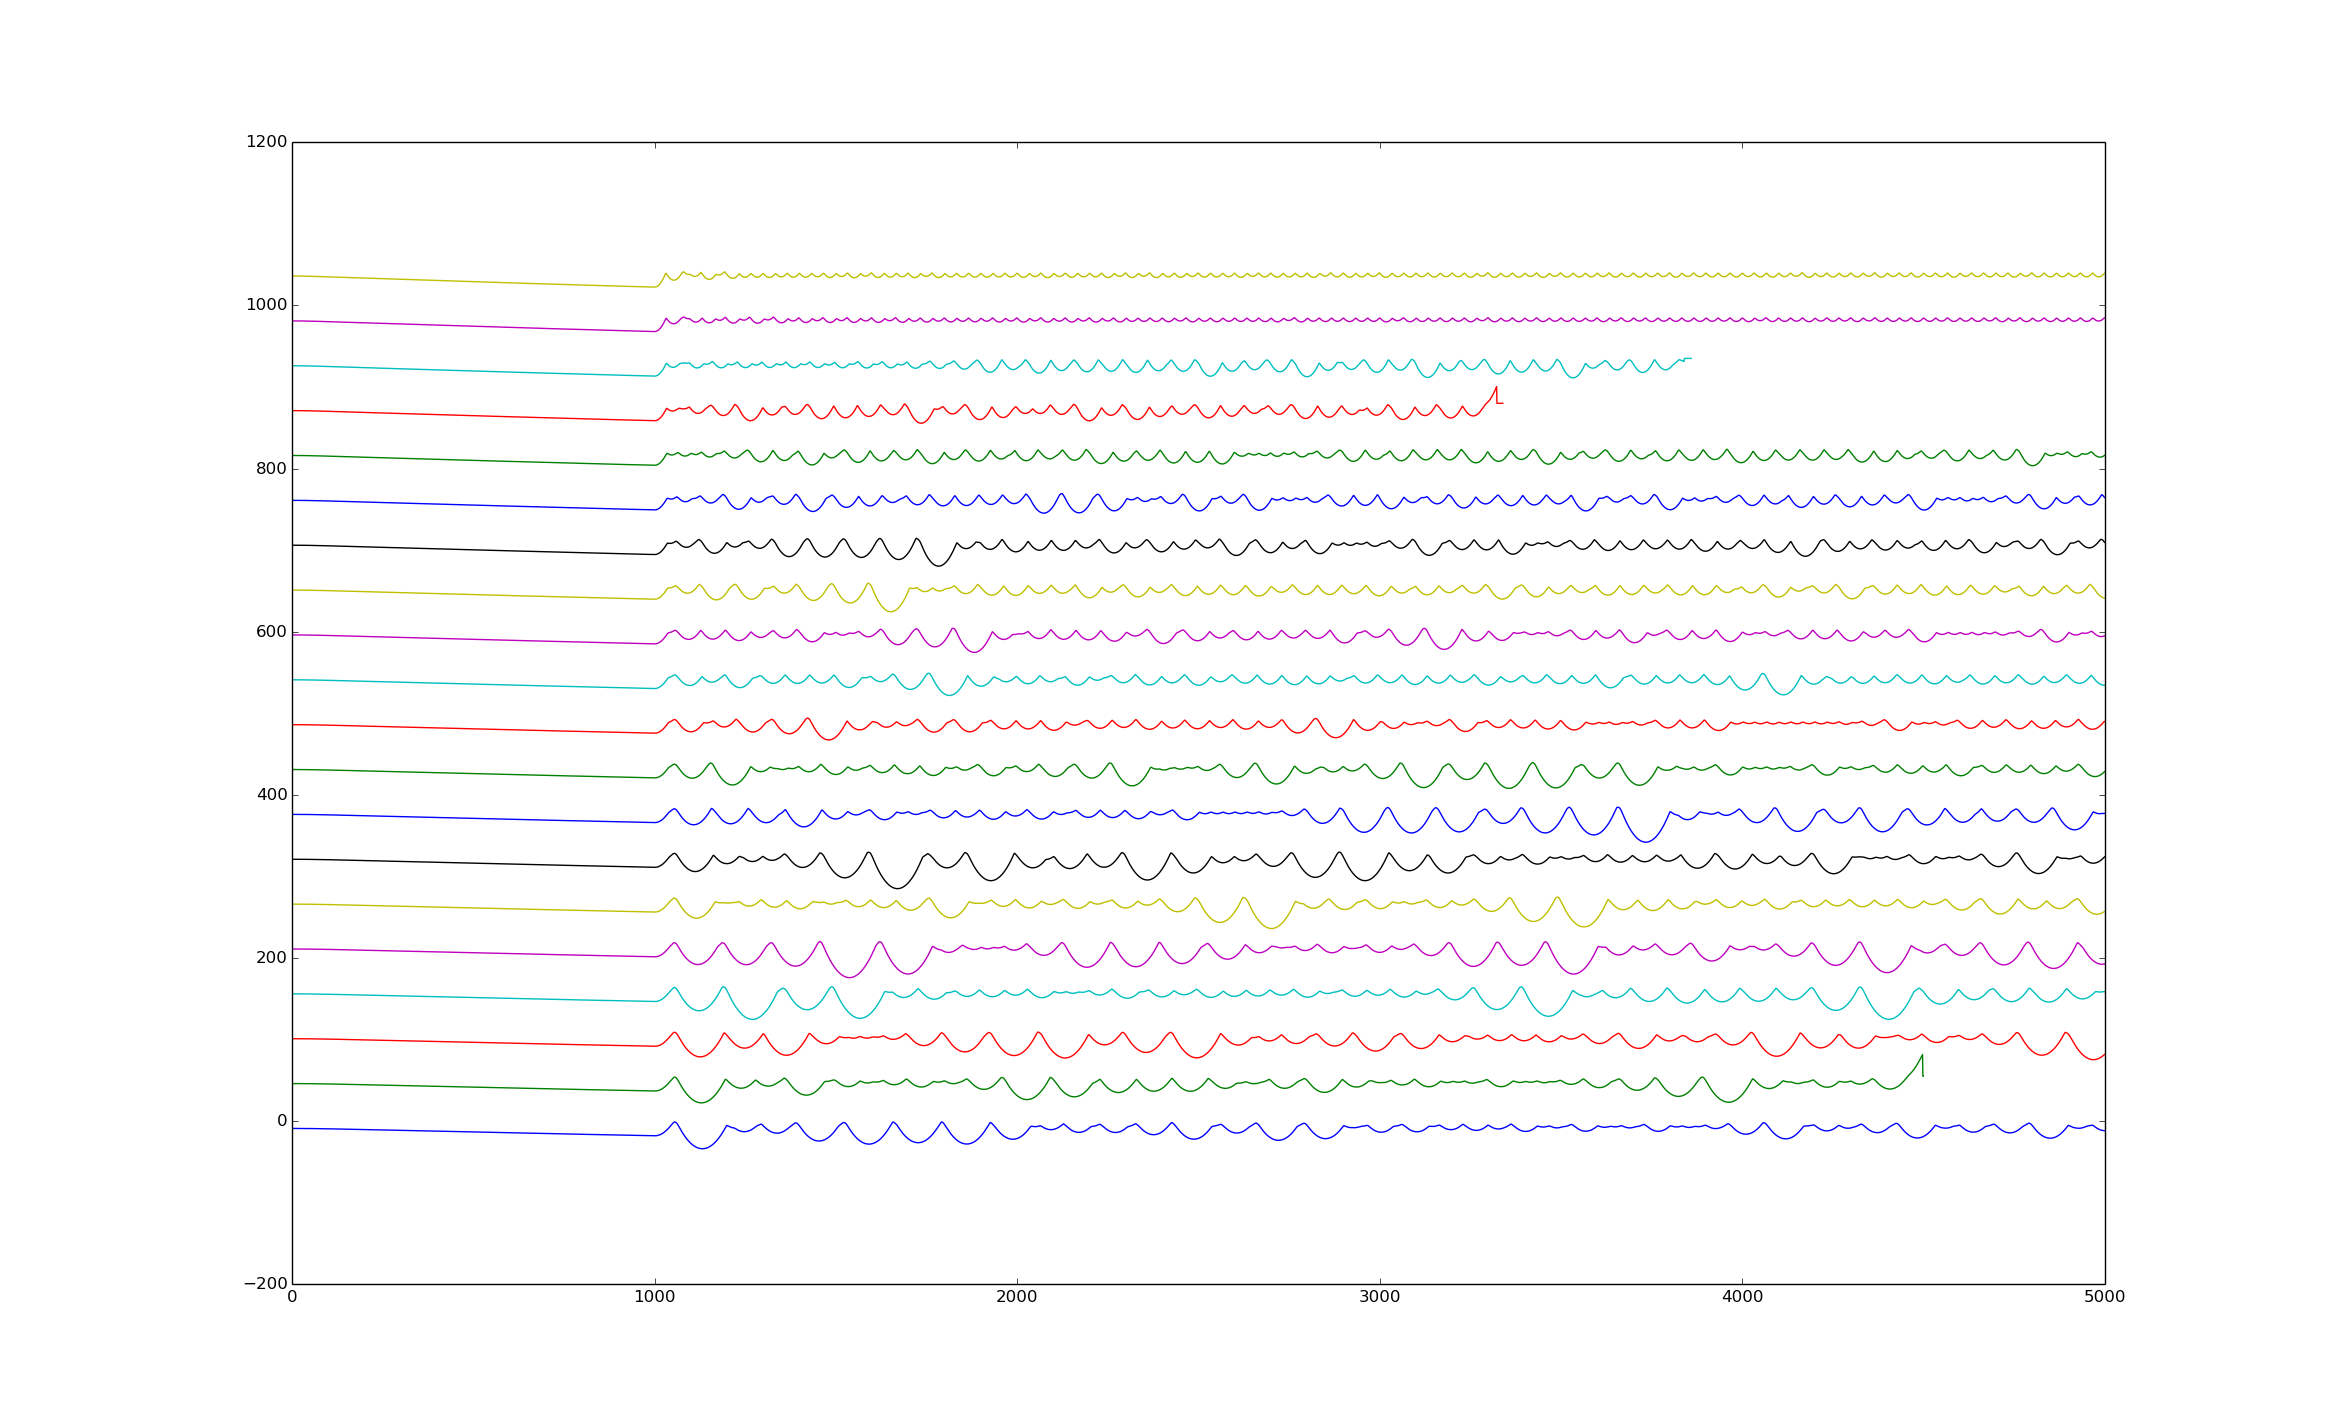
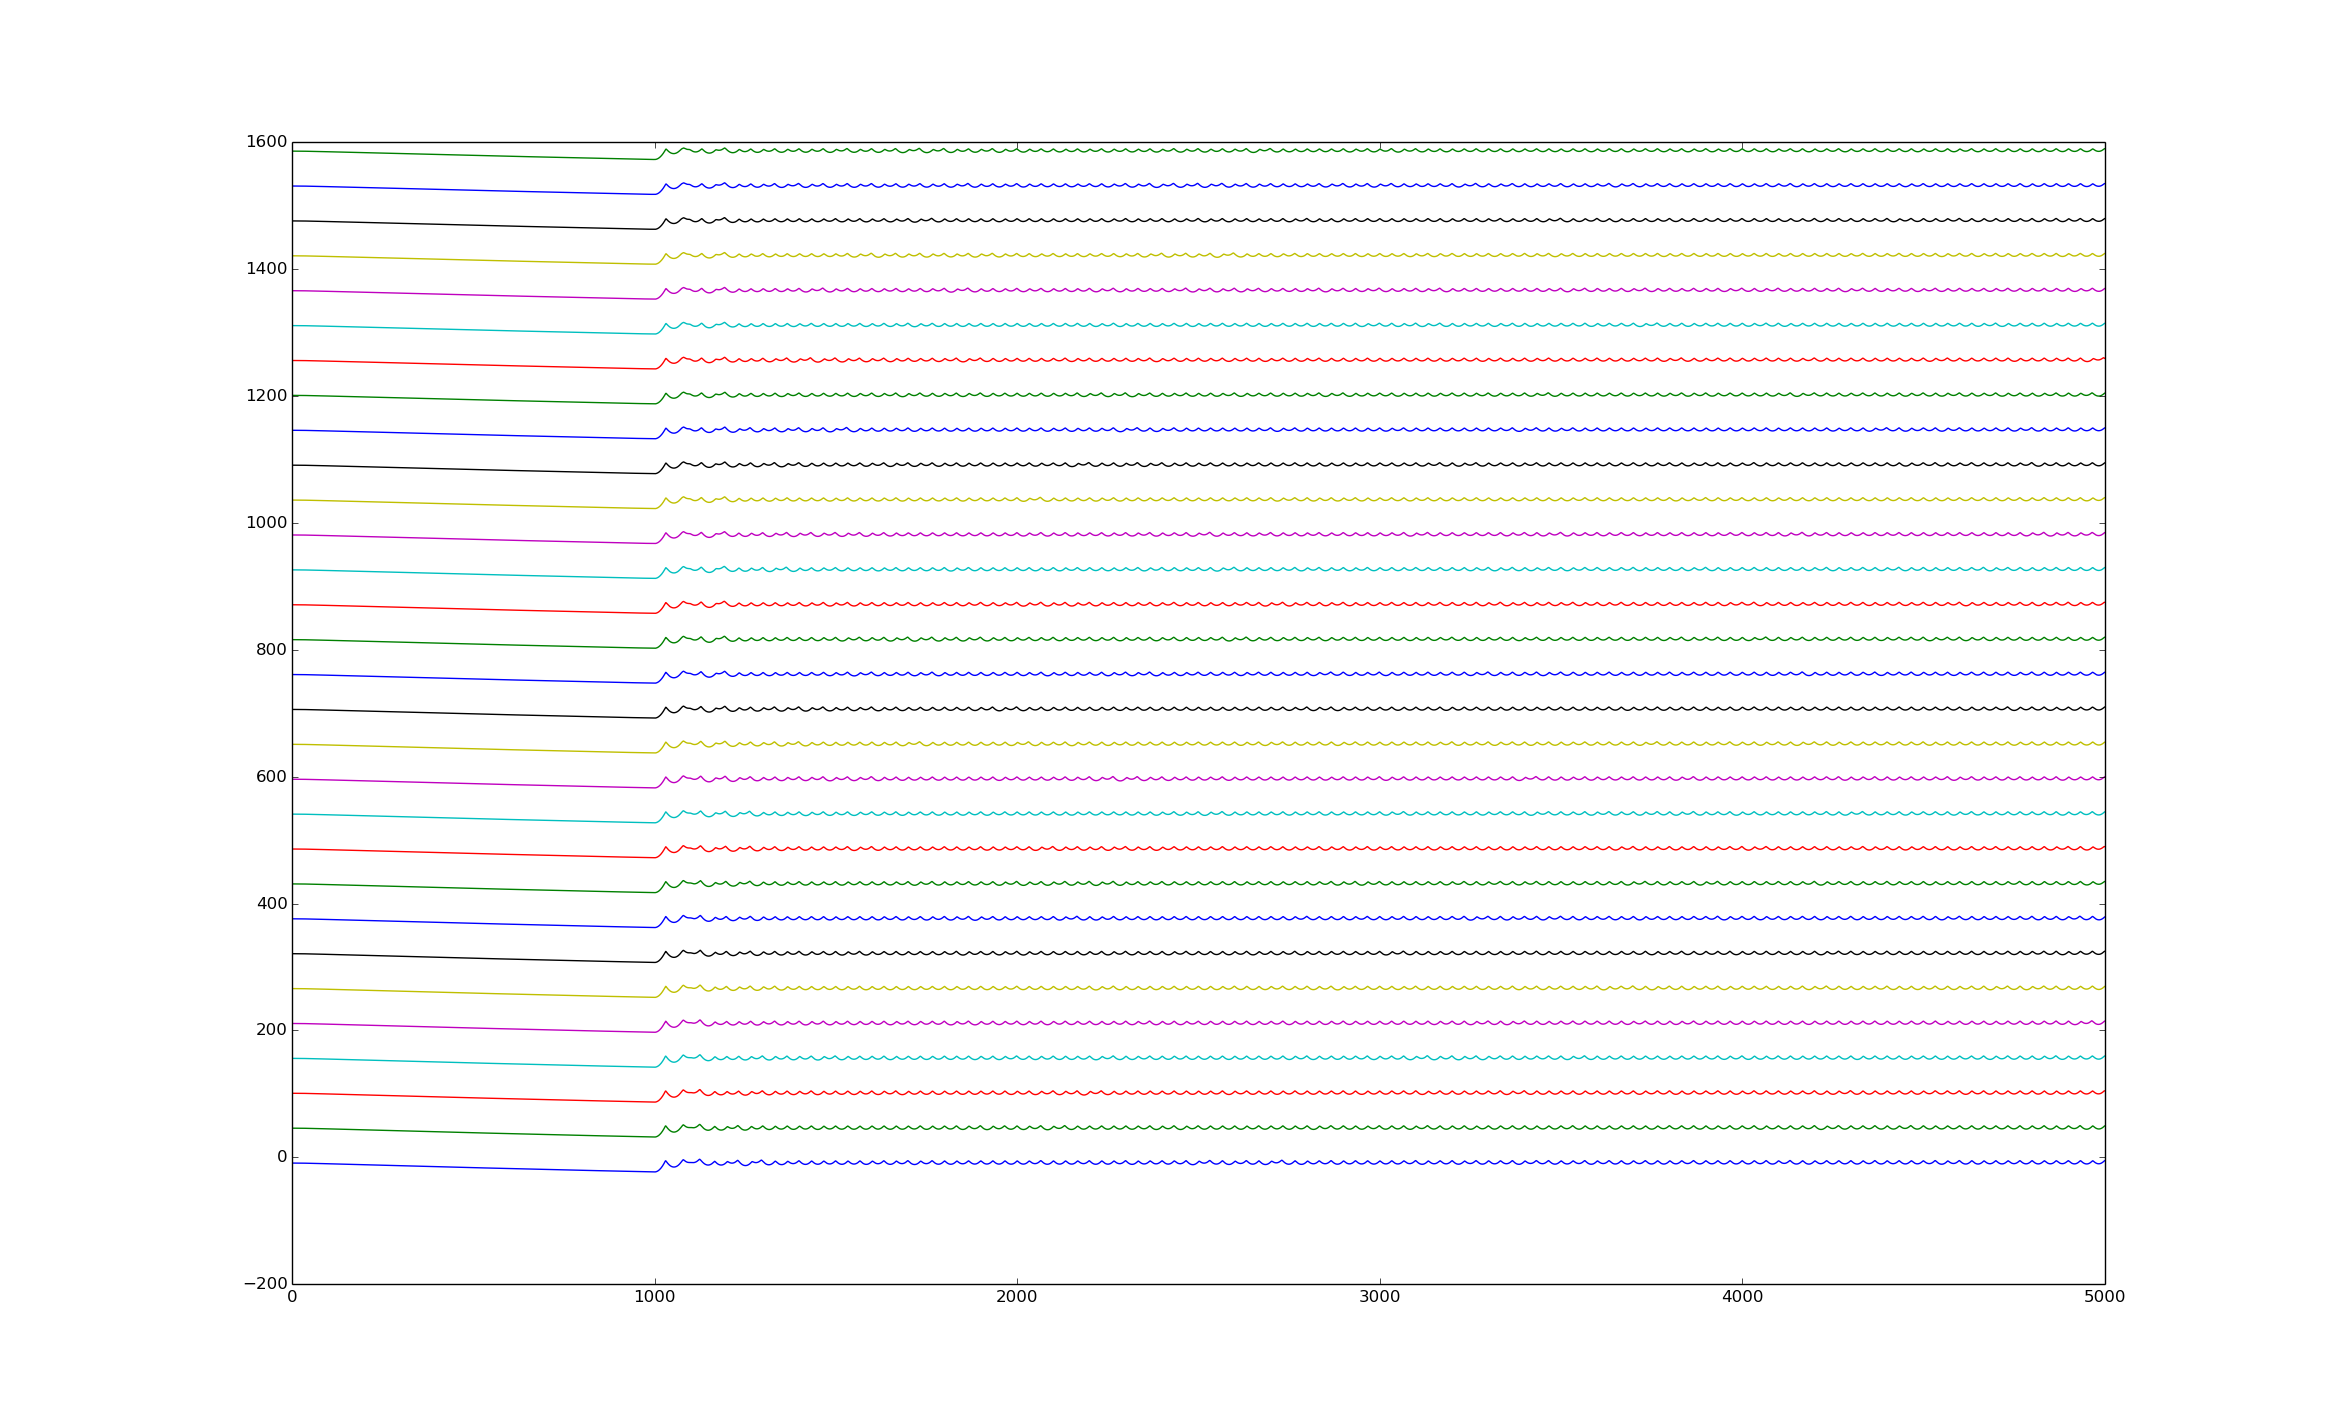
Range of mass with stable bouncing

Changed region(s): [[0.1249, 0.1542, 0.9055, 0.8017], [0.0937, 0.4317, 0.1249, 0.4625], [0.0937, 0.185, 0.1249, 0.2158]]

diff --git a/main.py b/main.py
@@ -87,7 +87,8 @@ if __name__ == '__main__':
     frequencies     = [1000]
     amplitudes      = [0.05]
     a_ball_zs       = [-9]
-    a_ball_mass     = [292.01 - 10 * it for it in range(20)]
+    # 102.01 and 112.01 gave great results
+    a_ball_mass     = [95.01 + 0.5 * it for it in range(30)]
     spring_factors  = [1.12]
 
 
